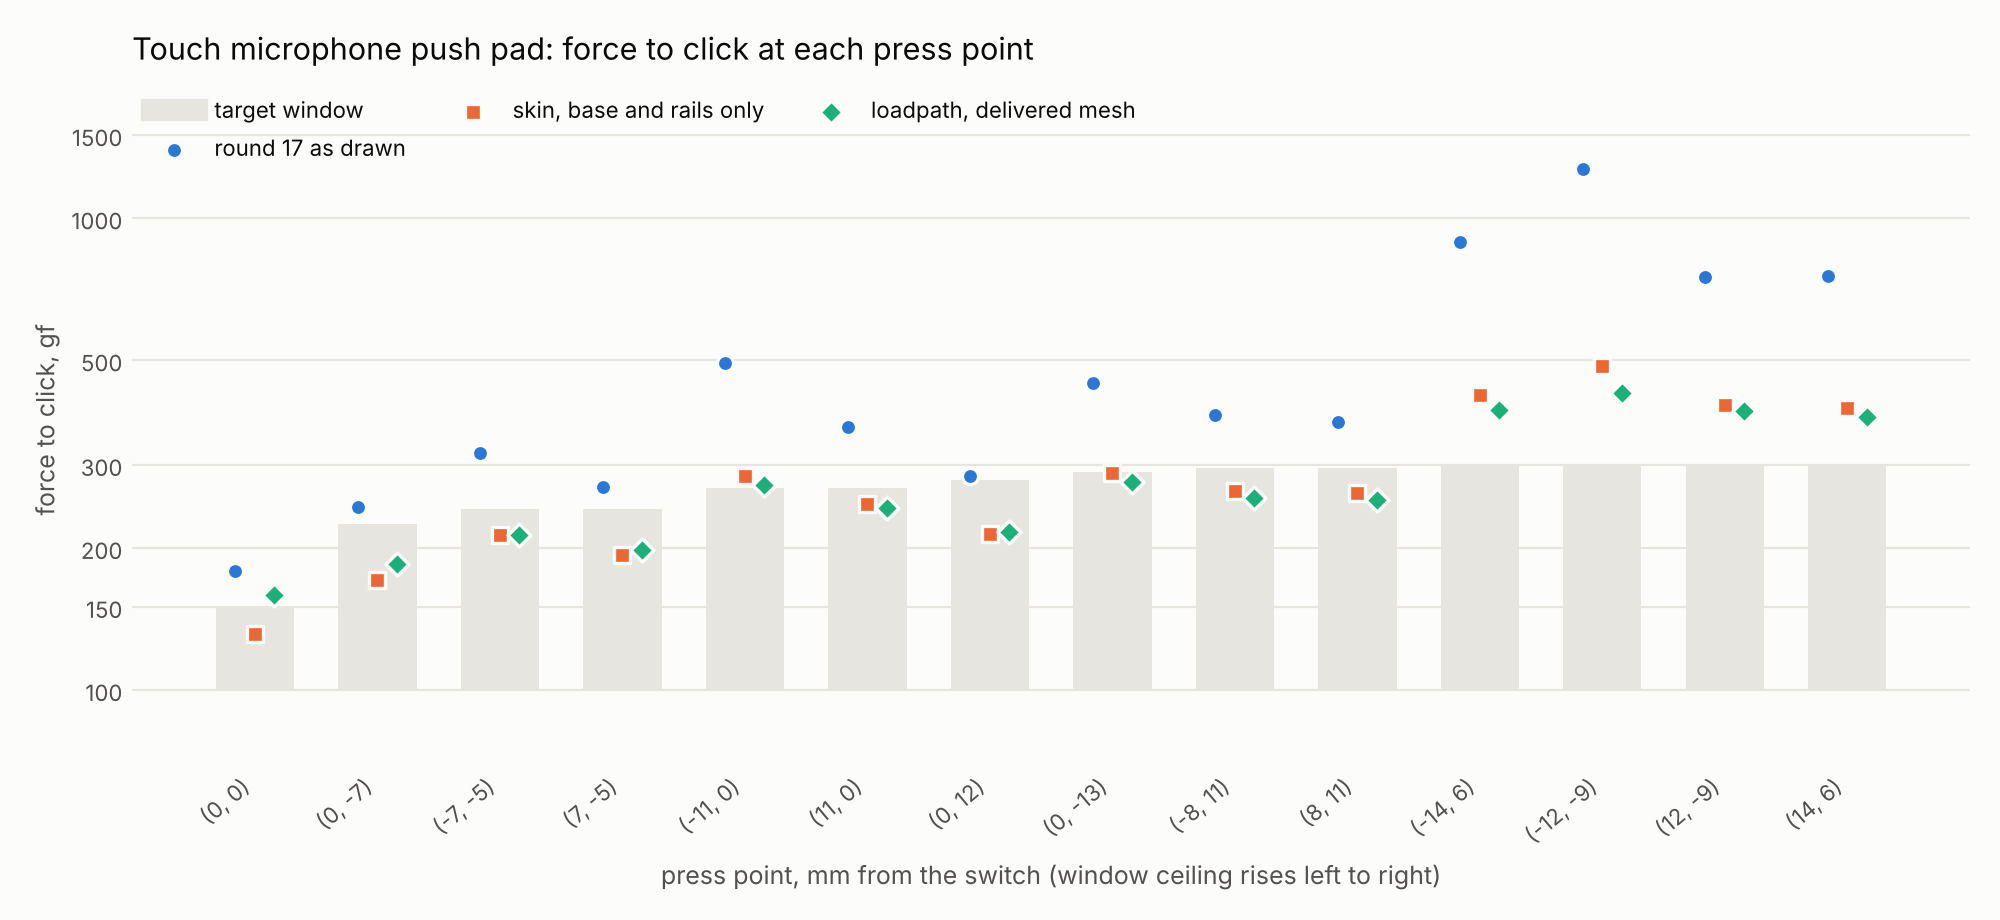
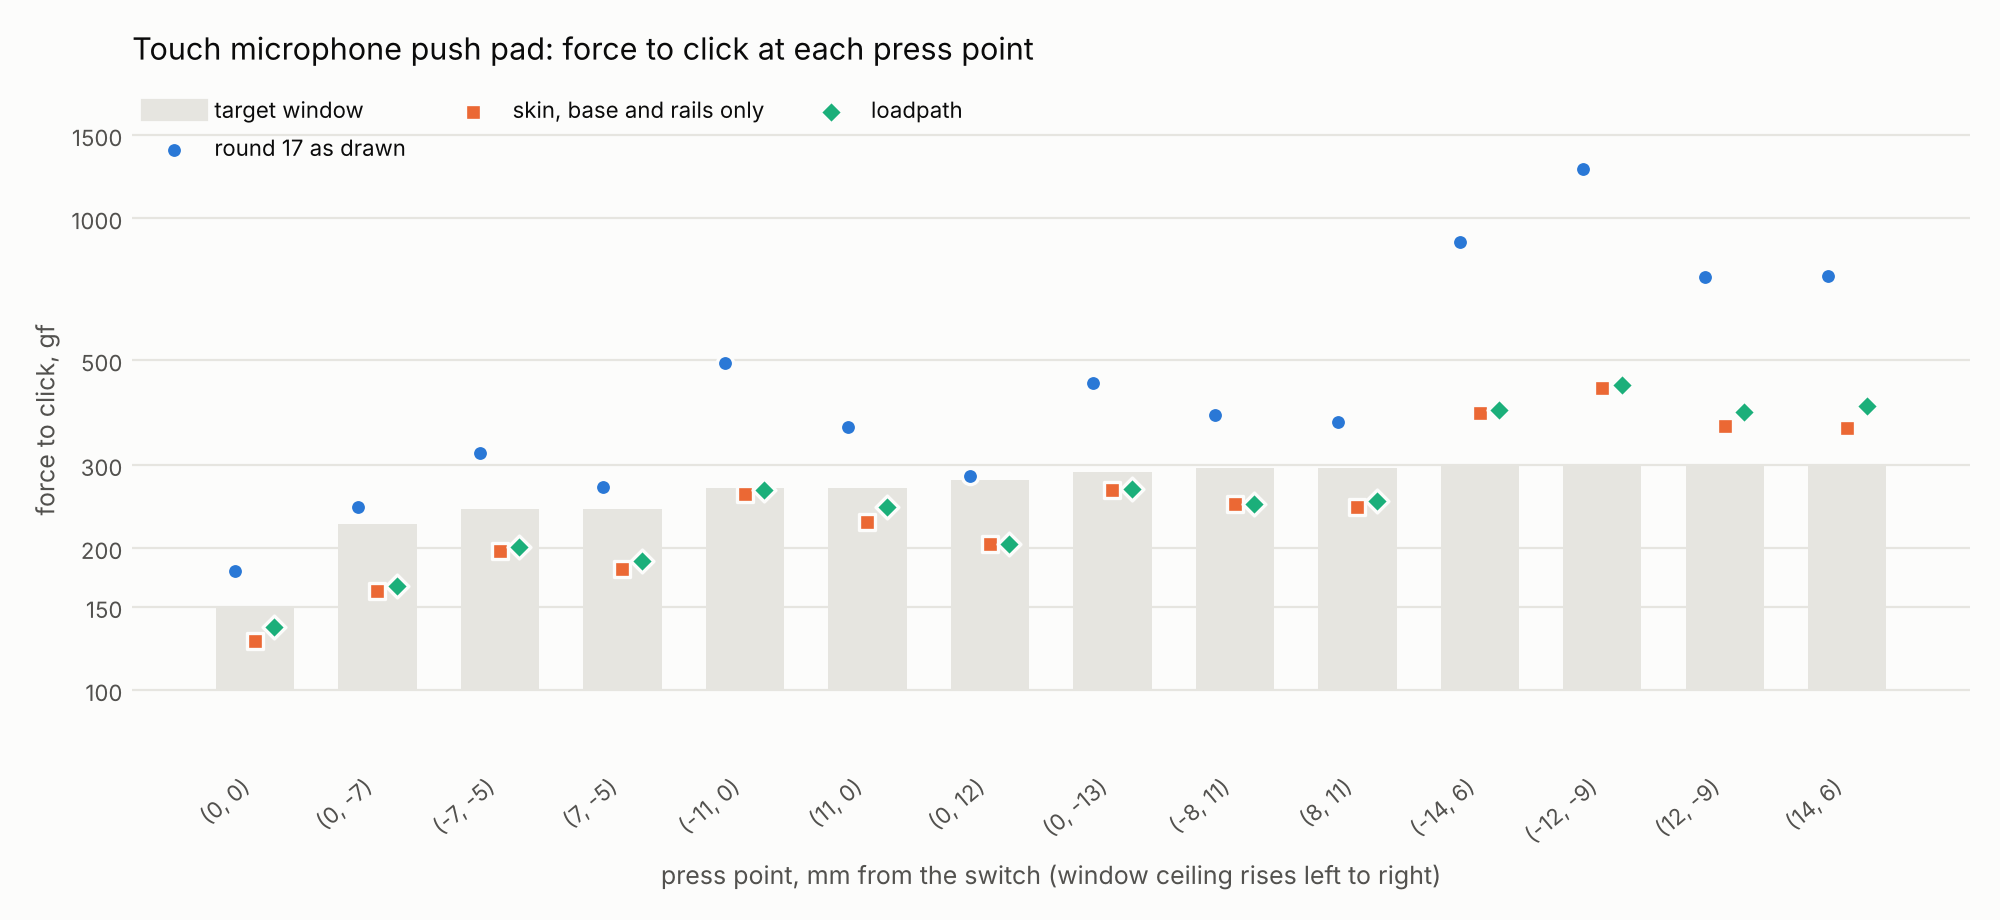
Touch-mic push pad on the exact skin: 10 of 14 delivered in 7.06 cm^3
Docs, force chart, section renders (inner skin no longer rippled) and the
full and coarse baselines for touch-mic-pad after the exact narrow-band
skin and the skin-limited ceiling relaxation.

Claude-Session: https://claude.ai/code/session_01HFwANXnS8hR9ccMrRNEWjg

diff --git a/docs/SWITCH.md b/docs/SWITCH.md
@@ -123,25 +123,43 @@ review used, and the flanks holding under a squeeze.
 ![force to click at each press point: round 17, the bare skin, loadpath](images/switch/touch-mic-forces.png)
 
 Every number here is the mesh read back on its own cut cells
-(`switch_lattice.readback`, 0.5 mm; the bare skin at 0.33 mm), which holds
-a 1.0 mm wall at 1.0 mm on any grid:
+(`switch_lattice.readback`, 0.5 mm), which holds a 1.0 mm wall at 1.0 mm
+on any grid:
 
 | part | in window | force to click | squeeze | volume |
 |---|---|---|---|---|
 | round 17 as drawn | 0 of 14 | 179 gf centre, 244-1272 gf elsewhere | 0.03 mm | 9.7 cm^3 |
-| skin, base and rails only | 9 of 14 | 131 gf centre, 397-486 gf at the four rim corners | | |
-| **loadpath, delivered mesh** (1.0 → 0.7 mm cells) | **9 of 14** | 159 gf centre, 380-427 gf at the four rim corners | 0.05 mm | **7.8 cm^3** |
+| skin, base and rails only | 10 of 14 | 127 gf centre, 360-436 gf at the four rim corners | | 6.3 cm^3 |
+| **loadpath, delivered mesh** (1.0 → 0.7 mm cells) | **10 of 14** | 136 gf centre, 388-443 gf at the four rim corners | 0.06 mm | **7.06 cm^3** |
 
 The drawn interior is stiff where the product wants it soft: the corners
 take up to 4.2 times their ceiling. Loadpath's interior meets every press
-the exterior allows, with 20% less material and nothing in the assembly
-paths, except the centre, 6% over its 150 gf ceiling. The four rim corners
-are over 300 gf on the bare skin alone, so no interior can bring them in.
-That is the designer's call (a ceiling of about 400-490 gf there, or
-changed rim surfacing), and the report's `skinReview` makes it with numbers
-(see "When the exterior decides" below). On this exterior the skin decides
-the feel: the right interior is light, and it works mostly by carrying the
-press to the plunger rather than by stiffening.
+the exterior allows, with 27% less material than the drawn one, the squeeze
+held, every board part's clearance kept (pcb 64%, receptacle 69%, chip 81%
+of its room at the worst press) and nothing in the assembly paths. The four
+rim corners are over 300 gf on the bare skin alone, so no interior can
+bring them in. That is the designer's call (a ceiling of about 400-450 gf
+there, or changed rim surfacing), and the report's `skinReview` makes it
+with numbers (see "When the exterior decides" below). On this exterior the
+skin decides the feel: the right interior is light, and it works mostly by
+carrying the press to the plunger rather than by stiffening.
+
+Two fixes got the delivered part from 9 to 10 of 14.
+
+- **An exact skin.** Earlier renders of this part showed a rippled inner
+  skin. The skin is an inward offset of the designer's surface, and a
+  surface mesh's distance field was sampled on a voxel grid good only to
+  half a 0.37 mm cell, so the 1.0 mm skin came out 0.65-1.18 mm thick in
+  bands. An `Offset` of a mesh now gets exact closest-point distances in a
+  narrow band around the surface (`MeshShape.exact_band`, cached under
+  `~/.cache/loadpath/sdf`, `LOADPATH_SDF_CACHE` to move it), and the skin
+  is 1.00 mm everywhere. The rippled skin had been stiff in places and soft
+  in others; on the exact skin the bare exterior reads 10 of 14, not 9.
+- **Ceilings the skin already misses.** A ceiling the bare skin alone
+  exceeds cannot be met, and working toward it made the optimizer strip
+  material the other presses needed (the centre came out 6% over). Those
+  ceilings are now worked to the bare skin's own force plus 2%, and the
+  report keeps the real windows and lists them under `relaxedCeilings`.
 
 Earlier versions of this section claimed 13 of 14 on 1 mm cells. That
 design read 0 of 14 on cut cells. Two models were wrong. A thin skin on
@@ -158,7 +176,8 @@ board. It is a clearance per component now (below), and every design
 since meets it.
 
 The run took 60 iterations on 1.0 mm cells and 60 on 0.7 mm cells, about
-50 minutes on 4 CPU cores. A press counts as in window within 2%.
+1.2 hours on 4 CPU cores (the designer-handoff setup below: openings, the
+flap as the switch seat, a clearance per board part). A press counts as in window within 2%.
 
 It is an eval case, `touch-mic-pad`. The product's CAD is not in this
 repository: `touch_mic.py --stl-only` writes the case's STLs from a
@@ -169,8 +188,8 @@ read-back, under 9.0 cm^3, a watertight mesh, and the squeeze held. The
 coarse tier (1.0 mm only, 40 iterations) gives 9 and 9 of 14 in 7.4 cm^3.
 Since the designer-handoff work the case also keeps no skin across the
 opening, bears the switch on the closed flap and holds a clearance per
-board part (below); its coarse tier now gives 9 and 8 of 14 in 7.2 cm^3,
-in 383 s (1403 s in the earlier run).
+board part (below). On the exact skin the coarse tier gives 10 and 10 of
+14 in 6.9 cm^3 (1114 s), and the full tier 10 and 10 in 7.06 cm^3.
 Every `loadpath switch` report carries the read-back (`deliveredForceGf`,
 `deliveredInWindow`, `deliveredHold`). A shareable comparison sheet:
 https://claude.ai/artifact/DevY83gMUWnygXPb2Jkm5v.

diff --git a/README.md b/README.md
@@ -316,15 +316,13 @@ and neither did loadpath's first 1 mm ribs, which had read 13 of 14 on
 their own grid, so
 loadpath now closes that loop: it reads each round's mesh back and
 corrects the targets by the error. With the skin read as cut cells inside the
-optimizer too, a 1.0 → 0.7 mm run's ribs hit 9 of 14 delivered in 7.8
-cm^3 on the first round, as many as the bare skin allows. Corrected over
-rounds, ribs and a graded BCC strut lattice both hit 8 of 14, the lattice in 7.0 cm^3 against the drawn 9.7
-with nothing in the assembly paths, and the four misses are the rim
-presses the 1.0 mm skin alone puts over 300 gf: a call for the designer,
-which the report makes with numbers. Written by `loadpath handoff` from
-the product's CAD alone, the study does as well from a quick 1 mm run:
-10 of 14 delivered (0.5 mm cut cells) in 7.4 cm^3, with the skin kept clear
-of every part on the board.
+optimizer and offset exactly from the designer's surface, a 1.0 → 0.7 mm
+run hits 10 of 14 delivered in 7.06 cm^3 against the drawn 9.7, as many as
+the bare skin allows, with the squeeze held, every board part kept clear
+and nothing in the assembly paths. The four misses are the rim presses the
+1.0 mm skin alone puts over 300 gf: a call for the designer, which the
+report makes with numbers. The study is written by `loadpath handoff` from
+the product's CAD alone.
 It runs in the eval suite as `touch-mic-pad`. ([docs/SWITCH.md](docs/SWITCH.md))
 
 <img src="docs/images/switch/touch-mic-forces.png" width="760">
